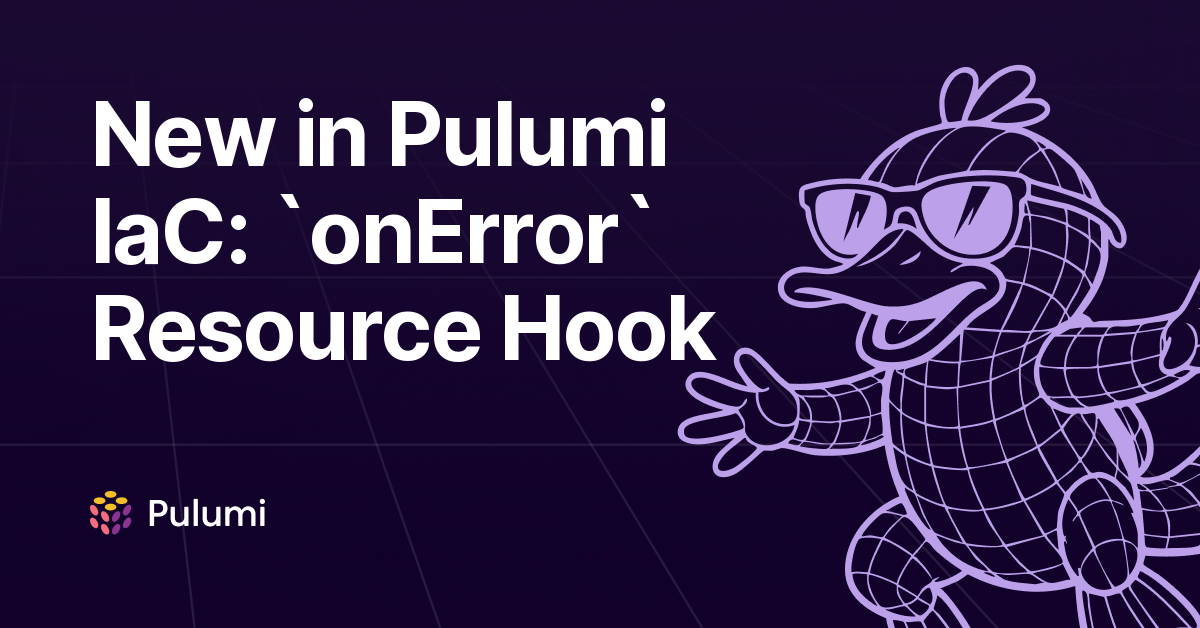
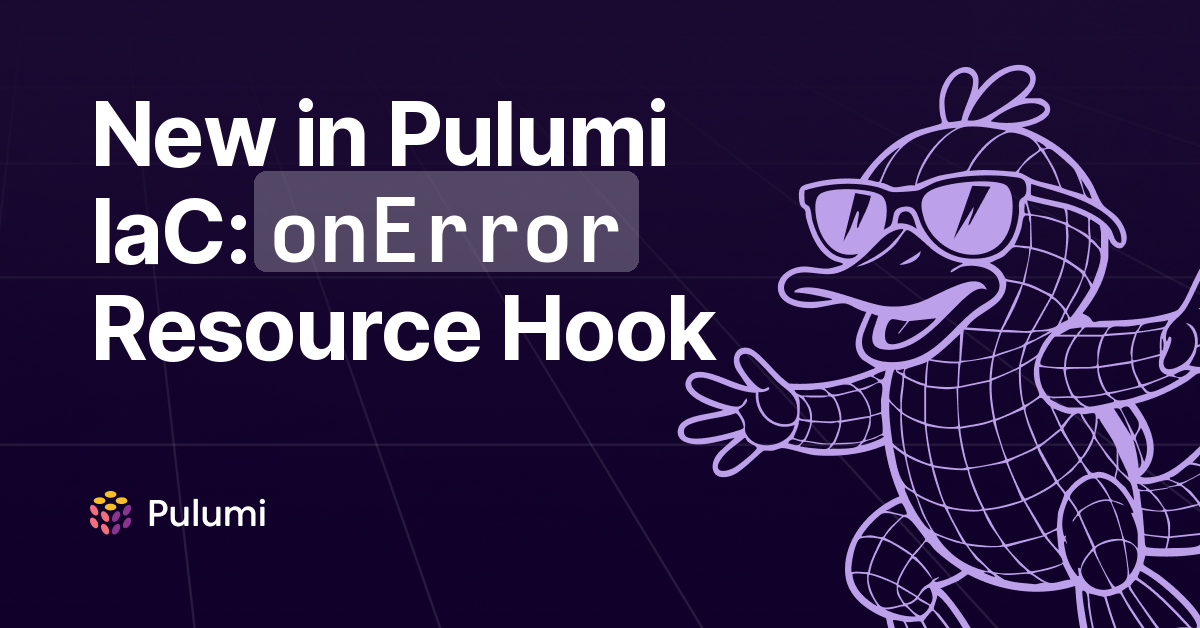
Improve meta image: code spans rendered with monospace font and pill background

Changed region(s): [[0.185, 0.2723, 0.555, 0.4538]]

diff --git a/.claude/commands/blog-meta-image/scripts/compose_meta_image.py b/.claude/commands/blog-meta-image/scripts/compose_meta_image.py
@@ -14,6 +14,7 @@ Pipeline: Load template PNG -> Place logos on placeholders -> Draw text -> Save
 
 import argparse
 import json
+import re
 import subprocess
 from io import BytesIO
 from pathlib import Path
@@ -59,6 +60,19 @@ def svg_to_png(svg_path: str, width: int, height: int) -> Image.Image:
     return img
 
 
+def _extract_code_spans(content: str) -> tuple[str, set[str]]:
+    """Strip backticks and return (plain_text, set_of_code_words)."""
+    code_words: set[str] = set()
+
+    def replace(m: re.Match) -> str:
+        for w in m.group(1).split():
+            code_words.add(w)
+        return m.group(1)
+
+    plain = re.sub(r"`([^`]+)`", replace, content)
+    return plain, code_words
+
+
 def draw_text(
     image: Image.Image,
     content: str,
@@ -66,7 +80,11 @@ def draw_text(
     catalog_text: dict,
     font_size: int = 71,
 ) -> Image.Image:
-    """Render text directly with Pillow using the Inter variable font."""
+    """Render text directly with Pillow using the Inter variable font.
+
+    Supports inline code spans delimited by backticks — these are rendered
+    with a monospace font and a rounded-rectangle background pill.
+    """
     font_path = fonts_dir / catalog_text["font"]
     font = ImageFont.truetype(str(font_path), font_size)
 
@@ -82,6 +100,17 @@ def draw_text(
     except Exception:
         pass  # Static fonts don't support variations
 
+    # Load monospace font for code spans (Iosevka Bold, falling back to Inter)
+    code_font = font
+    for candidate in ("iosevka-fixed-extendedbold.woff2", "iosevka-fixed-extended.woff2"):
+        candidate_path = fonts_dir / candidate
+        if candidate_path.exists():
+            try:
+                code_font = ImageFont.truetype(str(candidate_path), font_size)
+            except Exception:
+                pass
+            break
+
     x_start = catalog_text.get("x", 90)
     y_top = catalog_text.get("y", 80)
     max_width = catalog_text.get("max_width", 700)
@@ -91,7 +120,10 @@ def draw_text(
 
     letter_spacing_px = letter_spacing_em * font_size
     line_height_px = font_size * line_height_pct / 100
-    lines = _word_wrap(content, font, max_width)
+
+    # Strip backticks and identify code words, then word-wrap the plain text
+    plain_content, code_words = _extract_code_spans(content)
+    lines = _word_wrap(plain_content, font, max_width)
 
     # Create transparent text layer
     txt_layer = Image.new("RGBA", image.size, (0, 0, 0, 0))
@@ -100,9 +132,35 @@ def draw_text(
     for i, line in enumerate(lines):
         x = x_start
         y = y_top + i * line_height_px
-        for char in line:
-            draw.text((x, y), char, font=font, fill=color)
-            x += font.getlength(char) + letter_spacing_px
+        words = line.split(" ")
+        for j, word in enumerate(words):
+            if not word:
+                x += font.getlength(" ") + letter_spacing_px
+                continue
+
+            is_code = word in code_words
+            active_font = code_font if is_code else font
+            word_w = sum(active_font.getlength(c) + letter_spacing_px for c in word)
+
+            if is_code:
+                pad_x, pad_y = 14, 6
+                rect = [
+                    x - pad_x,
+                    y - pad_y,
+                    x + word_w - letter_spacing_px + pad_x,
+                    y + font_size + pad_y,
+                ]
+                draw.rounded_rectangle(rect, radius=12, fill=(255, 255, 255, 65))
+
+            cx = x
+            for char in word:
+                draw.text((cx, y), char, font=active_font, fill=color)
+                cx += active_font.getlength(char) + letter_spacing_px
+            x = cx
+
+            # Advance past the space between words
+            if j < len(words) - 1:
+                x += font.getlength(" ") + letter_spacing_px
 
     return Image.alpha_composite(image.convert("RGBA"), txt_layer)
 
